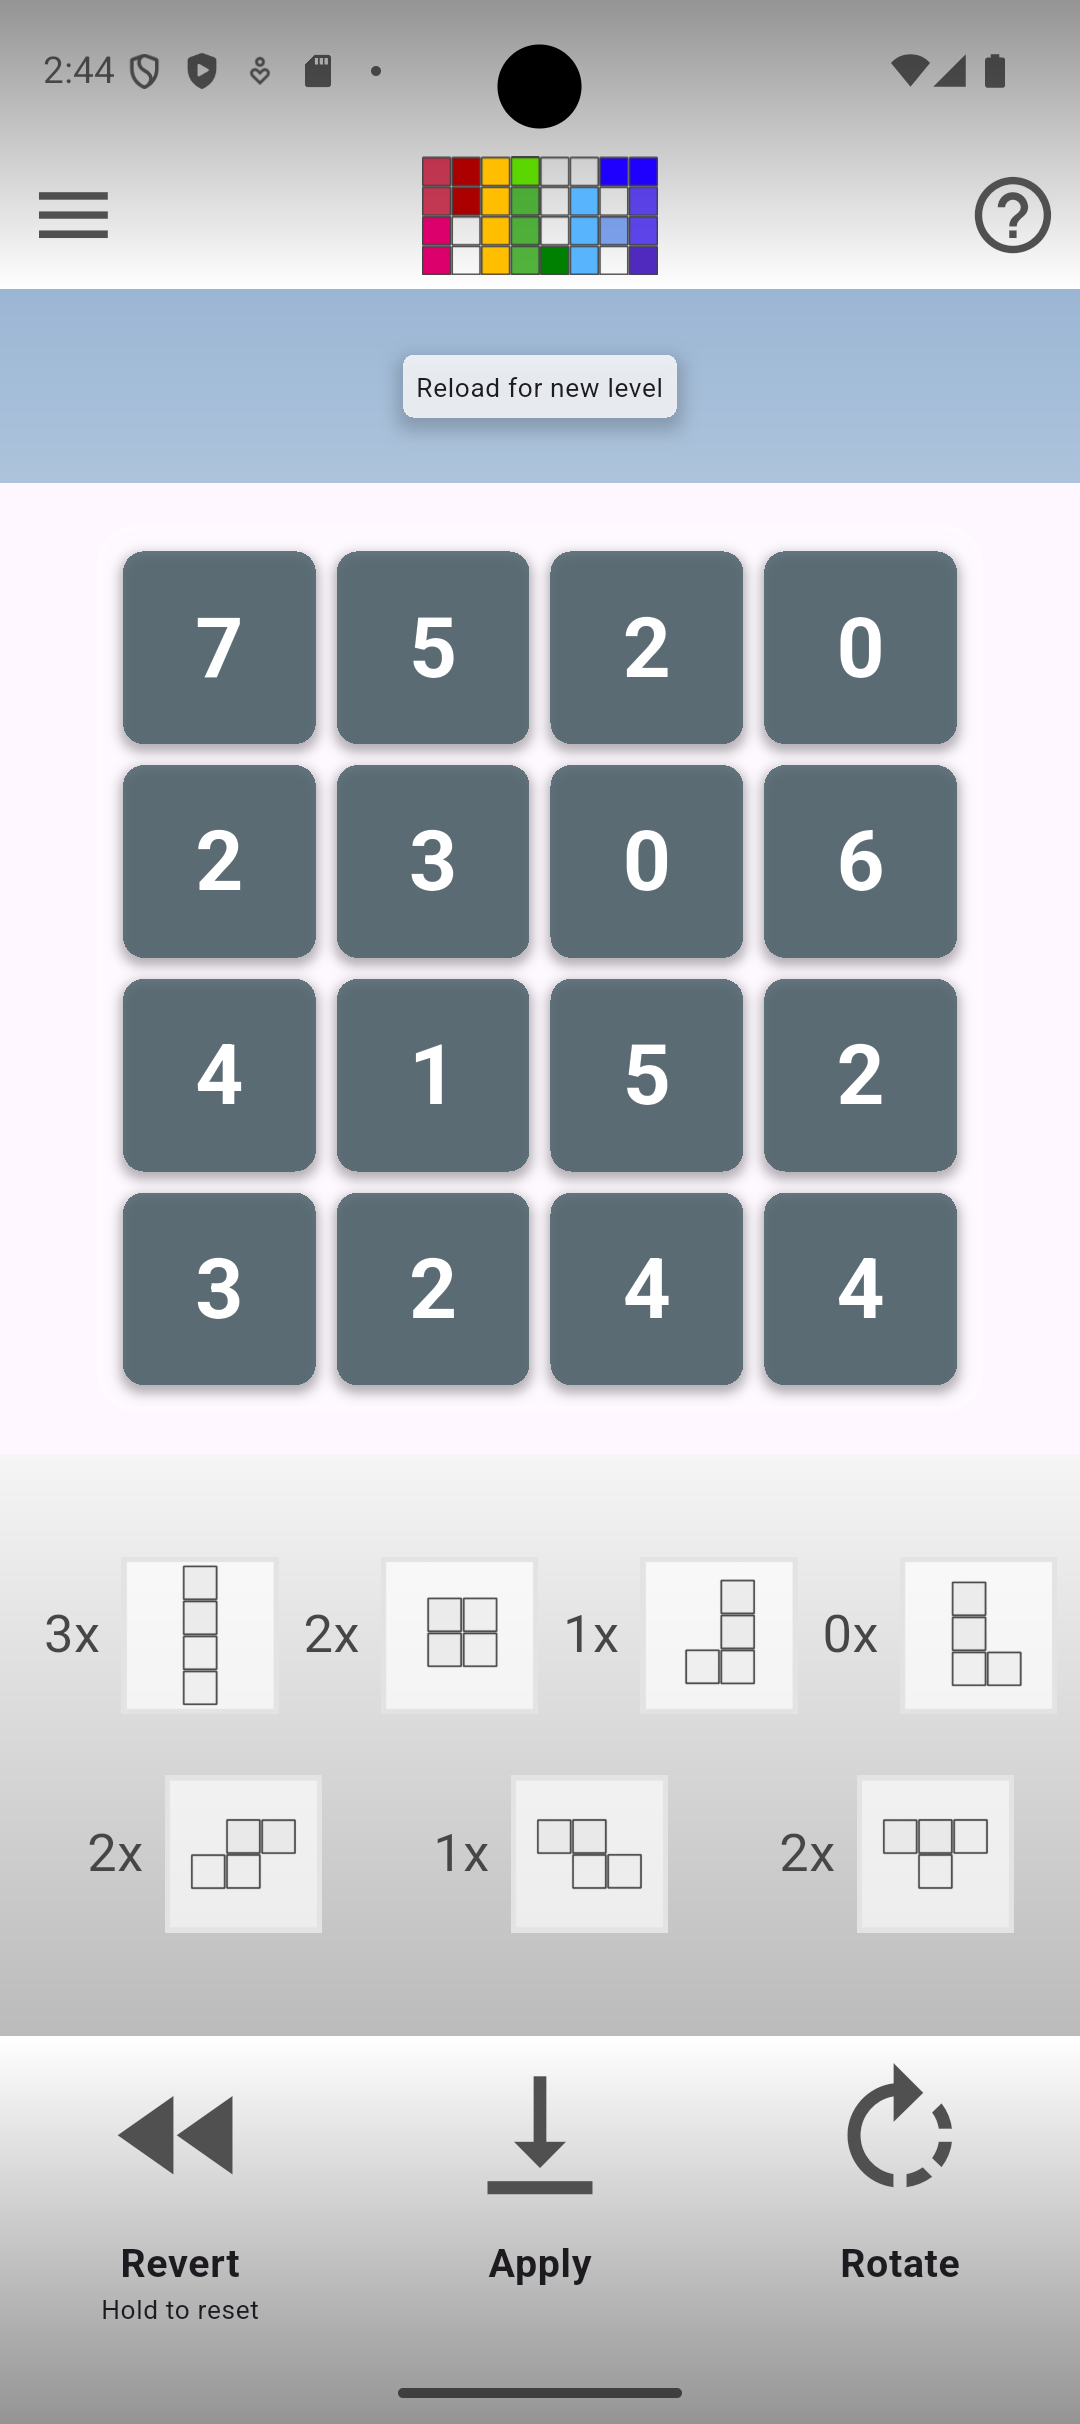
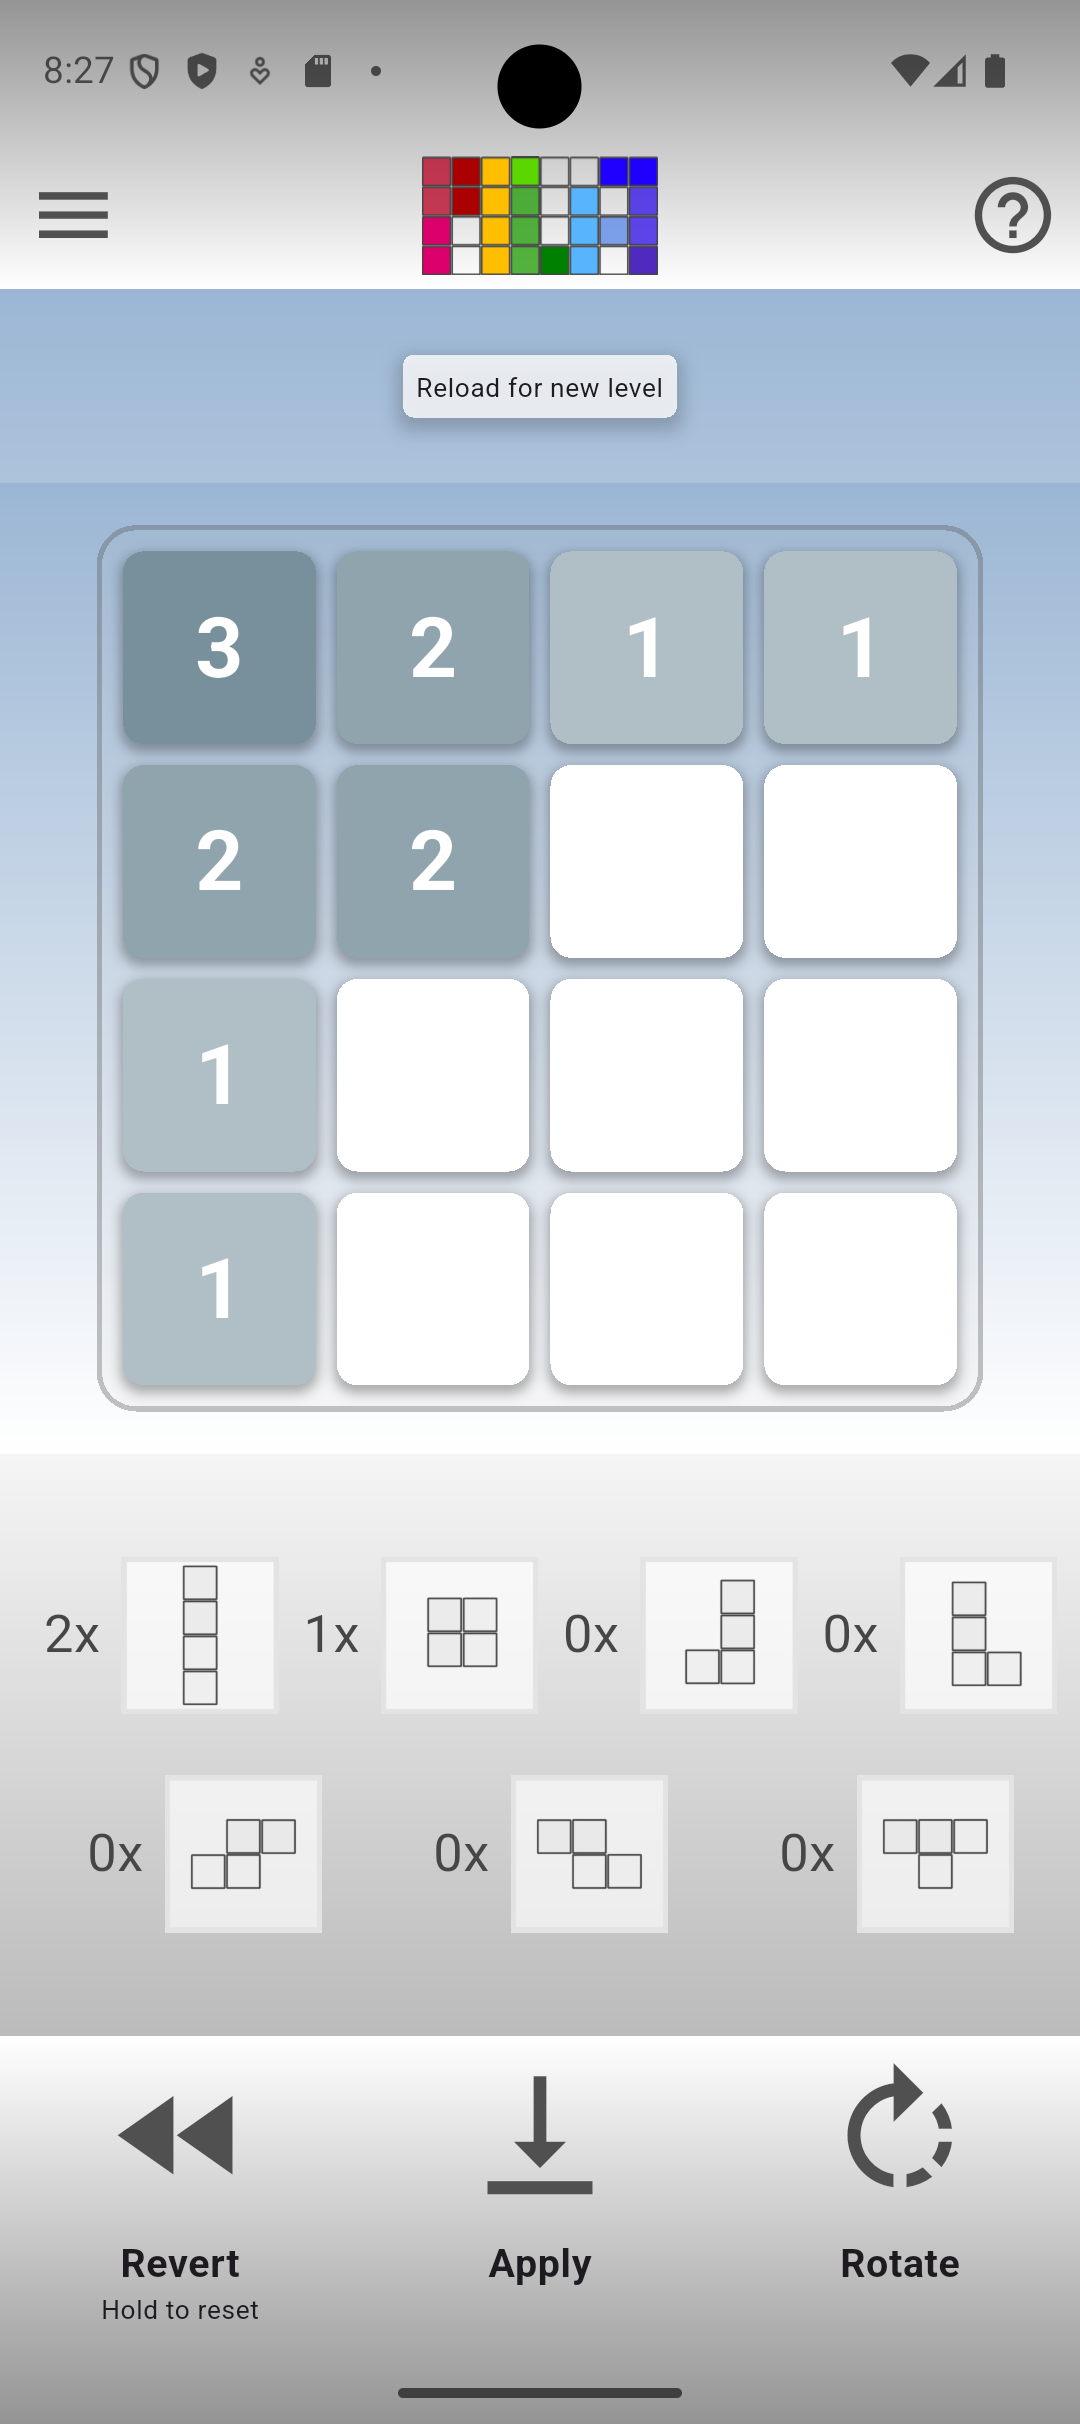
docs: update example screenshot in readme

diff --git a/lib/screens/home_tetrominos.dart b/lib/screens/home_tetrominos.dart
@@ -20,11 +20,11 @@ class TetrominoButtons extends StatelessWidget {
               mainAxisAlignment: MainAxisAlignment.spaceAround,
               children: [
                 _buildImageWithNumber(
-                    'assets/images/tetromino-I.png', 3),
+                    'assets/images/tetromino-I.png', 2),
                 _buildImageWithNumber(
-                    'assets/images/tetromino-O.png', 2),
+                    'assets/images/tetromino-O.png', 1),
                 _buildImageWithNumber(
-                    'assets/images/tetromino-J.png', 1),
+                    'assets/images/tetromino-J.png', 0),
                 _buildImageWithNumber(
                     'assets/images/tetromino-L.png', 0),
               ],
@@ -34,11 +34,11 @@ class TetrominoButtons extends StatelessWidget {
               mainAxisAlignment: MainAxisAlignment.spaceAround,
               children: [
                 _buildImageWithNumber(
-                    'assets/images/tetromino-S.png', 2),
+                    'assets/images/tetromino-S.png', 0),
                 _buildImageWithNumber(
-                    'assets/images/tetromino-Z.png', 1),
+                    'assets/images/tetromino-Z.png', 0),
                 _buildImageWithNumber(
-                    'assets/images/tetromino-T.png', 2),
+                    'assets/images/tetromino-T.png', 0),
               ],
             ),
           ],
@@ -53,10 +53,6 @@ Widget _buildImageWithNumber(String imagePath, int number) {
     children: [
       Container(
         padding: const EdgeInsets.symmetric(horizontal: 8, vertical: 4),
-        // decoration: BoxDecoration(
-        //   color: const Color.fromARGB(255, 110, 110, 110),
-        //   borderRadius: BorderRadius.circular(15),
-        // ),
         child: Text(
           "${number}x",
           style: const TextStyle(

diff --git a/lib/main.dart b/lib/main.dart
@@ -58,16 +58,17 @@ class PilaHome extends StatelessWidget {
             ReloadArea(),
 
             Expanded(
-                flex: 5,
-                child: Center(
-                  child: GameGridScreen(),
-                )),
+              flex: 5,
+              child: Center(
+                child: GameGridScreen(),
+              )
+            ),
 
             // Mittlere Zeile: TetrominoButtons mit Zahlenfeldern (4 oben, 3 unten)
             TetrominoButtons(),
 
             // Unterste Zeile: ActionButtons
-            action_buttons(),
+            ActionButtons(),
           ],
         ),
       ),

diff --git a/lib/screens/home_actions.dart b/lib/screens/home_actions.dart
@@ -1,7 +1,7 @@
 import 'package:flutter/material.dart';
 
-class action_buttons extends StatelessWidget {
-  const action_buttons({
+class ActionButtons extends StatelessWidget {
+  const ActionButtons({
     super.key,
   });
 
